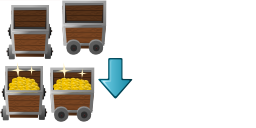
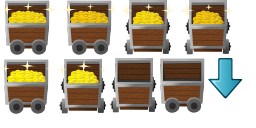
Animate gold in cart (in progress)

diff --git a/TileGame/GoldCart.m b/TileGame/GoldCart.m
@@ -15,9 +15,16 @@
 @synthesize facingDirection = _facingDirection;
 @synthesize capacity = _capacity;
 @synthesize readyForLoading = _readyForLoading;
+@synthesize withGoldFrontAnim = _withGoldFrontAnim;
+@synthesize withGoldSideAnim = _withGoldSideAnim;
 
--(void) dealloc {    
+-(void) dealloc {
+    [_withGoldFrontAnim release];
+    [_withGoldSideAnim release];  
     [_arrow release];
+    
+    _withGoldFrontAnim = nil;
+    _withGoldSideAnim = nil;
     _arrow = nil;
 
     [super dealloc];
@@ -25,6 +32,22 @@
 
 -(BOOL)isFull {
     return _currentAmount >= _capacity;
+}
+
+-(void) loadWithGoldAnimations {
+    NSMutableArray *frontAnimFrames = [NSMutableArray array];
+    [frontAnimFrames addObject:[[CCSpriteFrameCache sharedSpriteFrameCache] spriteFrameByName:@"cart-with-gold-front-1.png"]];
+    [frontAnimFrames addObject:[[CCSpriteFrameCache sharedSpriteFrameCache] spriteFrameByName:@"cart-with-gold-front-2.png"]];
+    [frontAnimFrames addObject:[[CCSpriteFrameCache sharedSpriteFrameCache] spriteFrameByName:@"cart-with-gold-front-3.png"]];
+    
+    NSMutableArray *sideAnimFrames = [NSMutableArray array];
+    [sideAnimFrames addObject:[[CCSpriteFrameCache sharedSpriteFrameCache] spriteFrameByName:@"cart-with-gold-side-1.png"]];
+    [sideAnimFrames addObject:[[CCSpriteFrameCache sharedSpriteFrameCache] spriteFrameByName:@"cart-with-gold-side-2.png"]];
+    [sideAnimFrames addObject:[[CCSpriteFrameCache sharedSpriteFrameCache] spriteFrameByName:@"cart-with-gold-side-3.png"]];
+    
+    // set up walking animations
+    _withGoldFrontAnim = [[CCAnimation animationWithFrames:frontAnimFrames delay:0.3f] retain];
+    _withGoldSideAnim = [[CCAnimation animationWithFrames:sideAnimFrames delay:0.3f] retain];
 }
 
 -(void)updateStateWithDeltaTime:(ccTime)deltaTime andGameObject:(CCHero *)target {
@@ -54,6 +77,9 @@
     }
     
     _currentAmount += 1;
+    if (_currentAmount == 1) {
+        [self adjustAnimation:_facingDirection];
+    }
     
     // build data to send in notification
     NSNumber *amountInNsNumber = [NSNumber numberWithInt:_currentAmount];
@@ -69,6 +95,36 @@
     return _currentAmount;
 }
 
+-(id)getAnimation:(FacingDirection)direction {
+    id action = nil;
+    
+    switch (direction) {
+        case kFacingDown:
+        case kFacingUp:
+            action = [[CCRepeatForever actionWithAction:[CCAnimate actionWithAnimation:_withGoldFrontAnim restoreOriginalFrame:YES]] retain];
+            break;
+        case kFacingLeft:
+        case kFacingRight:
+            action = [[CCRepeatForever actionWithAction:[CCAnimate actionWithAnimation:_withGoldSideAnim restoreOriginalFrame:YES]] retain];
+            break;
+    }
+    _facingDirection = direction;
+    
+    return action;
+}
+
+-(void) adjustAnimation:(FacingDirection)direction {
+    
+    id action = [self getAnimation:direction];
+    
+    if (action == nil) {
+        [self stopAllActions];
+    }
+    else {
+        [self runAction:action];
+    }
+}
+
 -(id) init
 {
     if( (self=[super init]) )
@@ -78,6 +134,9 @@
         _arrow = [[[Arrow alloc] initWithSpriteFrameName:@"arrow-down.png"] retain];
         _currentAmount = 0;
         _capacity = 5;
+        
+        [self loadWithGoldAnimations];
+        
         [self addChild:_arrow];
     }
     return self;

diff --git a/TileGame/GoldCart.h b/TileGame/GoldCart.h
@@ -18,6 +18,9 @@
     int _currentAmount;
     BOOL _readyForLoading;
     Arrow *_arrow;
+    
+    CCAnimation *_withGoldFrontAnim;
+    CCAnimation *_withGoldSideAnim;
 }
 
 -(void)updateStateWithDeltaTime:(ccTime)deltaTime andGameObject:(CCHero *)target;
@@ -27,5 +30,7 @@
 @property (nonatomic, assign) FacingDirection facingDirection;
 @property (nonatomic, assign) int capacity;
 @property (nonatomic, assign) BOOL readyForLoading;
+@property (nonatomic, retain) CCAnimation *withGoldFrontAnim;
+@property (nonatomic, retain) CCAnimation *withGoldSideAnim;
 
 @end
